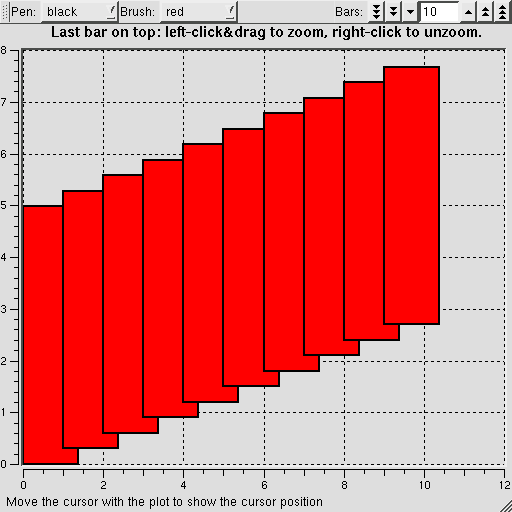
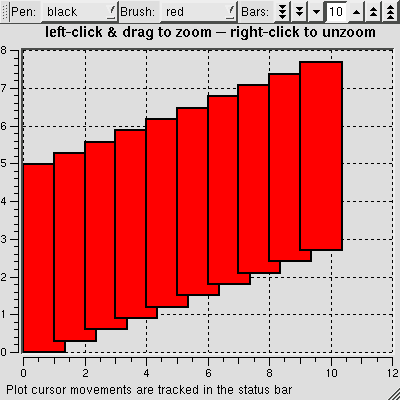
Reduce demand for screen estate

diff --git a/examples/StackOrder.py.html b/examples/StackOrder.py.html
@@ -57,6 +57,7 @@
 
 <font color=blue># class QwtBarCurve</font>
 
+
 <b>class</b><font color=red> QwtBarPlotDemo</font>(QMainWindow):
 
     table = {
@@ -75,20 +76,74 @@
     <b>def</b><font color=red> __init__</font>(self, parent=None):
         QMainWindow.__init__(self, parent)
 
-        self.plot = QwtPlot(<font color=green>"last bar on top: "</font>
-                            <font color=green>"left-click&amp;drag to zoom, "</font>
-                            <font color=green>"right-click to unzoom."</font>, self)
+        <font color=blue># Initialize a QwPlot central widget</font>
+        self.plot = QwtPlot(<font color=green>'left-click &amp; drag to zoom'</font>
+                            <font color=green>' -- '</font>
+                            <font color=green>'right-click to unzoom'</font>,
+                            self)
         self.plot.plotLayout().setCanvasMargin(0)
         self.plot.plotLayout().setAlignCanvasToTicks(True)
         self.setCentralWidget(self.plot)
 
-        <font color=blue># Initialize zooming</font>
-        self.plot.canvas().setMouseTracking(True)
-        self.statusBar().message(<font color=green>"Move the cursor with the plot"</font>
-                                 <font color=green>" to show the cursor position"</font>)
-        self.zoomStack = []
+        self.__initToolBar()
+        self.__initTracking()
+        self.__initZooming()
+        
+        <font color=blue># Finalize</font>
+        self.counter.setValue(10)
+        self.go(self.counter.value())
 
-        <font color=blue># Connect the mouse SIGNALs from self.plot to the onMouseXx SLOTs</font>
+    <font color=blue># __init__()</font>
+
+    <b>def</b><font color=red> __initToolBar</font>(self):
+        <font color=green>"""Initialize the toolbar
+        """</font>
+        
+        self.toolBar = QToolBar(self)
+
+        QLabel(<font color=green>"Pen:"</font>, self.toolBar)
+
+        self.penComboBox = QComboBox(self.toolBar)
+        <b>for</b> name <b>in</b> self.table.keys():
+            self.penComboBox.insertItem(name)
+        self.penComboBox.setCurrentText(<font color=green>'black'</font>)
+
+        QLabel(<font color=green>"Brush:"</font>, self.toolBar)
+
+        self.brushComboBox = QComboBox(self.toolBar)
+        <b>for</b> name <b>in</b> self.table.keys():
+            self.brushComboBox.insertItem(name)
+        self.brushComboBox.setCurrentText(<font color=green>'red'</font>)
+
+        self.toolBar.setStretchableWidget(QWidget(self.toolBar))
+
+        QLabel(<font color=green>"Bars:"</font>, self.toolBar)
+
+        self.counter = QwtCounter(self.toolBar)
+        self.counter.setRange(0, 10000, 1)
+        self.counter.setNumButtons(3)
+
+        self.connect(self.counter, SIGNAL(<font color=green>'valueChanged(double)'</font>), self.go)
+        self.connect(self.penComboBox, SIGNAL(<font color=green>'activated(int)'</font>), self.go)
+        self.connect(self.brushComboBox, SIGNAL(<font color=green>'activated(int)'</font>), self.go)
+
+    <font color=blue># __initToolBar()</font>
+
+    <b>def</b><font color=red> __initTracking</font>(self):
+        <font color=green>"""Initialize tracking
+        """</font>
+        
+        self.plot.canvas().setMouseTracking(True)
+        self.statusBar().message(
+            <font color=green>"Plot cursor movements are tracked in the status bar"</font>)
+
+    <font color=blue># __initTracking()</font>
+
+    <b>def</b><font color=red> __initZooming</font>(self):
+        <font color=green>"""Initialize zooming
+        """</font>
+
+        self.zoomStack = []
         self.connect(self.plot,
                      SIGNAL(<font color=green>'plotMouseMoved(const QMouseEvent&amp;)'</font>),
                      self.onMouseMoved)
@@ -99,49 +154,24 @@
                      SIGNAL(<font color=green>'plotMouseReleased(const QMouseEvent&amp;)'</font>),
                      self.onMouseReleased)
 
-        <font color=blue># Initialize the toolbar</font>
-        self.toolBar = QToolBar(self)
-        QLabel(<font color=green>"Pen:"</font>, self.toolBar)
-        self.penComboBox = QComboBox(self.toolBar)
-        <b>for</b> name <b>in</b> self.table.keys():
-            self.penComboBox.insertItem(name)
-        self.penComboBox.setCurrentText(<font color=green>'black'</font>)
-        QLabel(<font color=green>"Brush:"</font>, self.toolBar)
-        self.brushComboBox = QComboBox(self.toolBar)
-        <b>for</b> name <b>in</b> self.table.keys():
-            self.brushComboBox.insertItem(name)
-        self.brushComboBox.setCurrentText(<font color=green>'red'</font>)
-        self.toolBar.setStretchableWidget(QWidget(self.toolBar))
-        QLabel(<font color=green>"Bars:"</font>, self.toolBar)
-        self.counter = QwtCounter(self.toolBar)
-        self.counter.setRange(0, 10000, 1)
-        self.counter.setNumButtons(3)
-
-        <font color=blue># Connect SIGNALs from the toolbar widgets to the self.go SLOT</font>
-        self.connect(self.counter, SIGNAL(<font color=green>'valueChanged(double)'</font>), self.go)
-        self.connect(self.penComboBox, SIGNAL(<font color=green>'activated(int)'</font>), self.go)
-        self.connect(self.brushComboBox, SIGNAL(<font color=green>'activated(int)'</font>), self.go)
-
-        <font color=blue># Finalize</font>
-        self.counter.setValue(10)
-        self.go(self.counter.value())
-
-    <font color=blue># __init__()</font>
-
+    <font color=blue># __initZooming()</font>
+       
     <b>def</b><font color=red> go</font>(self, x):
-        <font color=green>"""Create and plot a sequence bars taking into account the controls"""</font>
-        self.plot.removeCurves()
+        <font color=green>"""Create and plot a sequence bars taking into account the controls
+        """</font>
+
+        <b>if</b> type(x) == type(0):
+            <font color=blue># activated(int)</font>
+            x = int(self.counter.value())
+        <b>else</b>:
+            <font color=blue># valueChanged(double)</font>
+            self.clearZoomStack()
 
         penColor = self.table[str(self.penComboBox.currentText())]
         brushColor = self.table[str(self.brushComboBox.currentText())]
-
-        <font color=blue># x is a float on 'valueChanged(double)'</font>
-        <font color=blue># x is an int on 'activated(int)'</font>
-        <b>if</b> type(x) == type(0):
-            x = int(self.counter.value())
-        <b>else</b>:
-            self.clearZoomStack()
             
+        self.plot.removeCurves()
+
         <b>for</b> i <b>in</b> range(x):
             curve = QwtBarCurve(self.plot, penColor, brushColor)
             key = self.plot.insertCurve(curve)
@@ -150,7 +180,7 @@
 
         self.plot.replot()
 
-    <font color=blue># draw()</font>
+    <font color=blue># go()</font>
 
     <b>def</b><font color=red> onMouseMoved</font>(self, e):
         self.statusBar().message(
@@ -220,6 +250,7 @@
 
 <font color=blue># class StackOrderDemo</font>
 
+
 <b>def</b><font color=red> main</font>(args):
     app = QApplication(args)
     demo = make()
@@ -230,7 +261,7 @@
 
 <b>def</b><font color=red> make</font>():
     demo = QwtBarPlotDemo()
-    demo.resize(512, 512)
+    demo.resize(400, 400)
     demo.show()
     <b>return</b> demo
 
